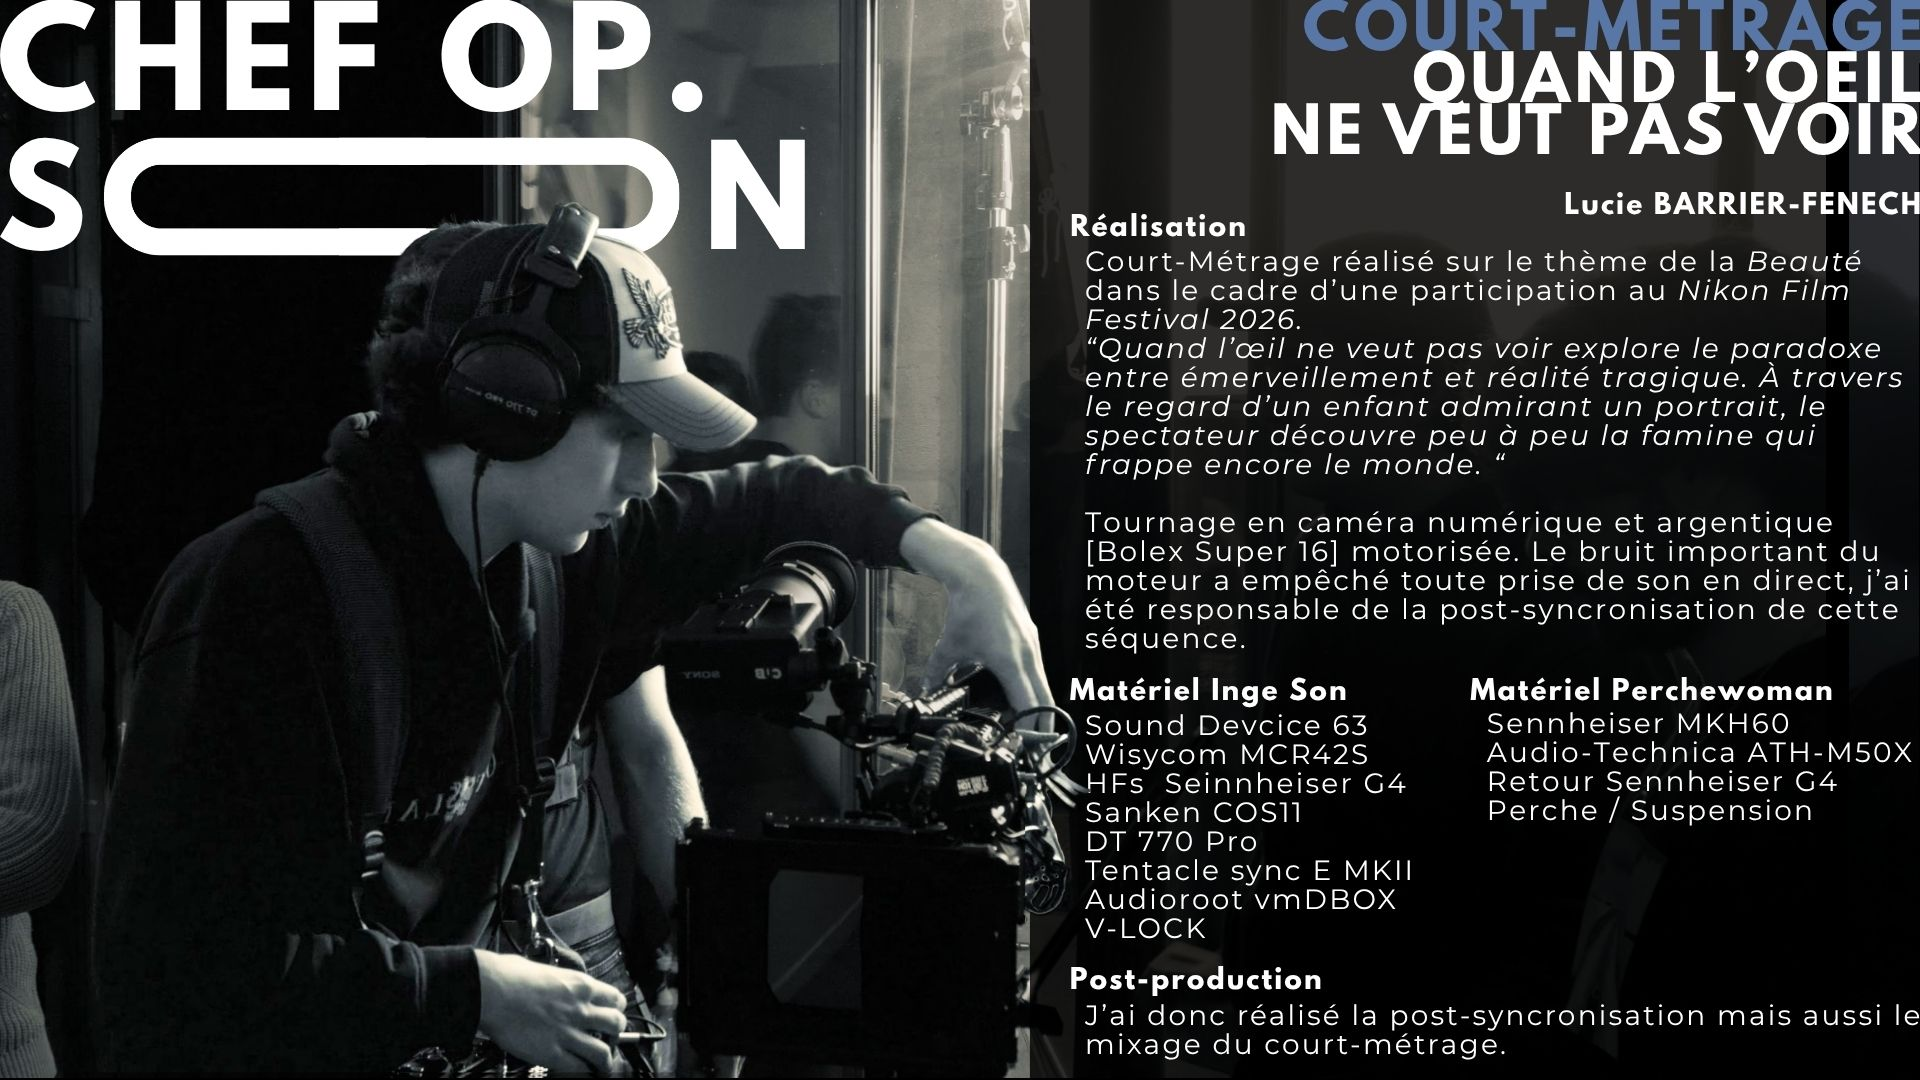
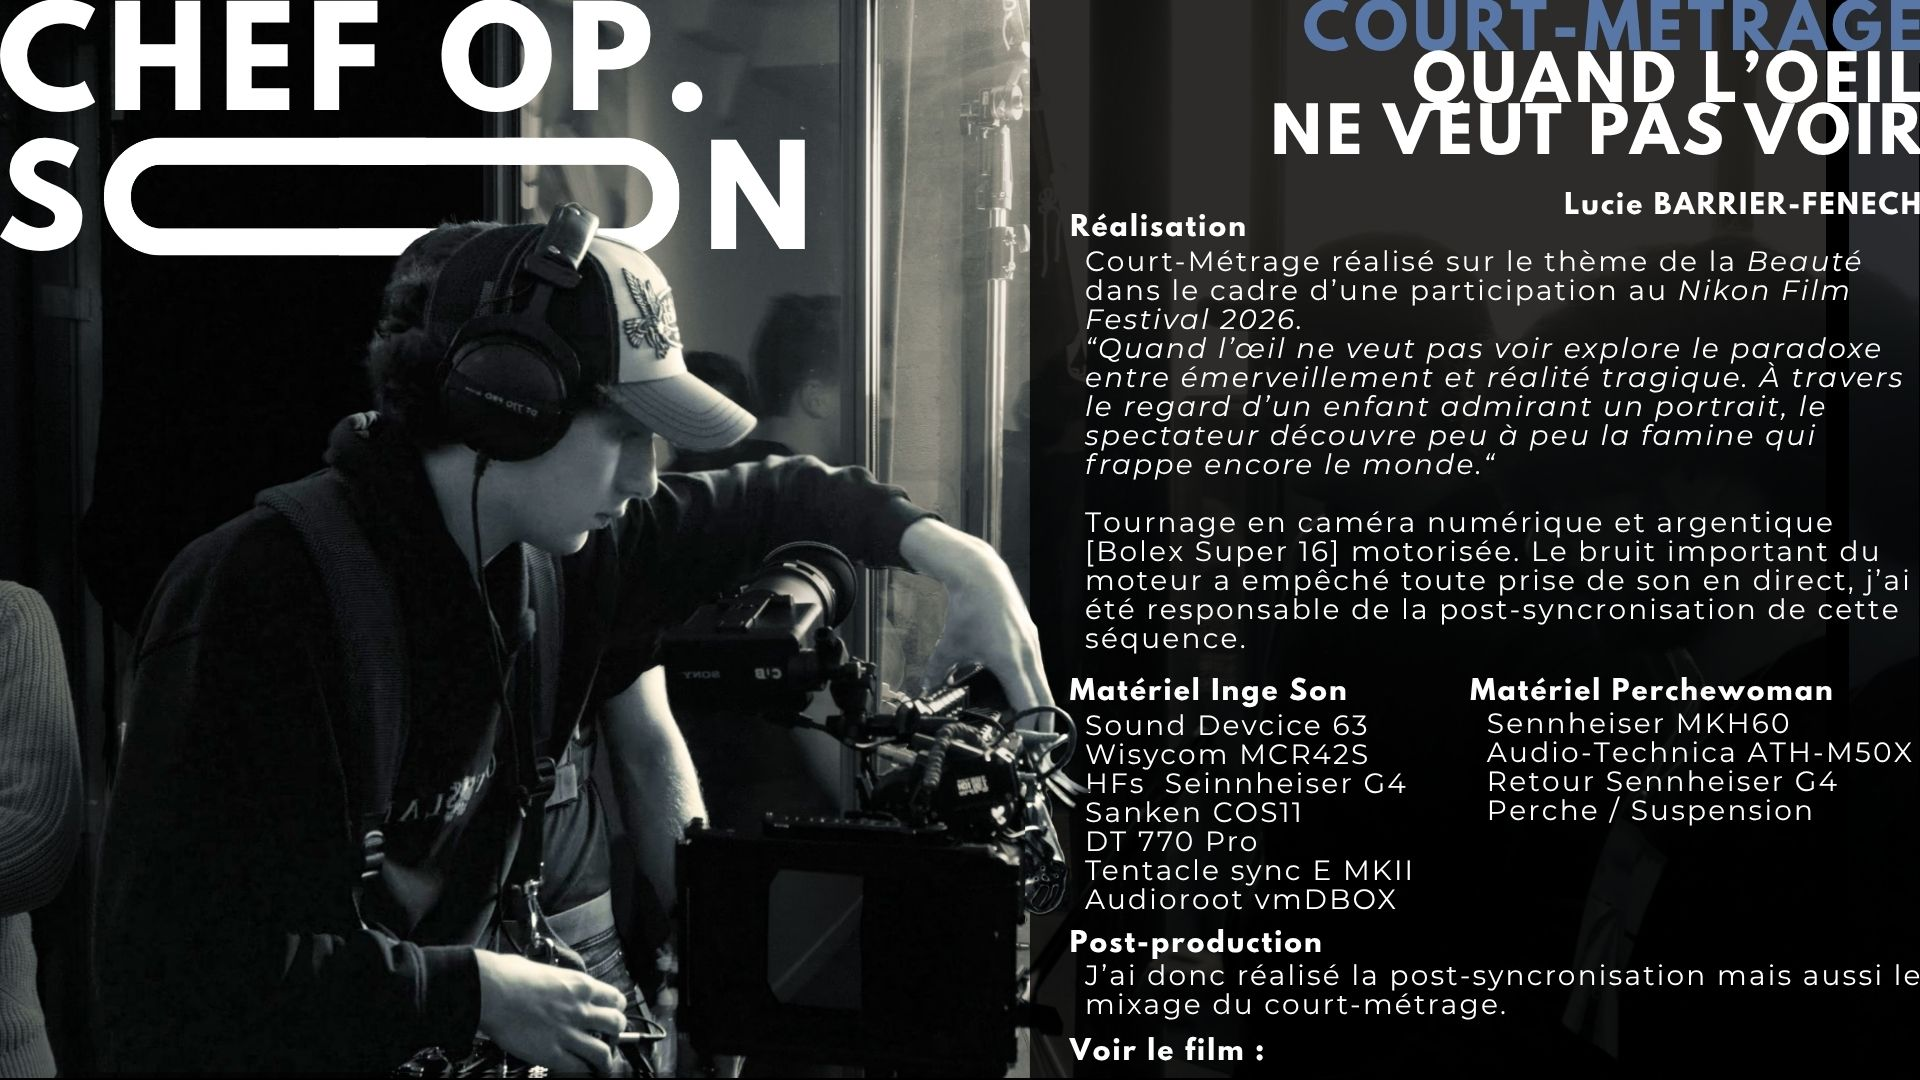
court 4

Changed region(s): [[0.5625, 0.8556, 1.0, 0.9778]]

diff --git a/index.html b/index.html
@@ -158,6 +158,15 @@
 
 <div class="slide">
   <img src="images/image4.jpg" alt="Projet 4">
+  
+  <a
+    class="film-link"
+    href="https://www.youtube.com/watch?v=TZZSyGUkfuQ"
+    target="_blank"
+    rel="noopener noreferrer">
+    https://www.youtube.com/watch?v=TZZSyGUkfuQ
+  </a>
+
 </div>
 
 <!-- SLIDE 5 -->
